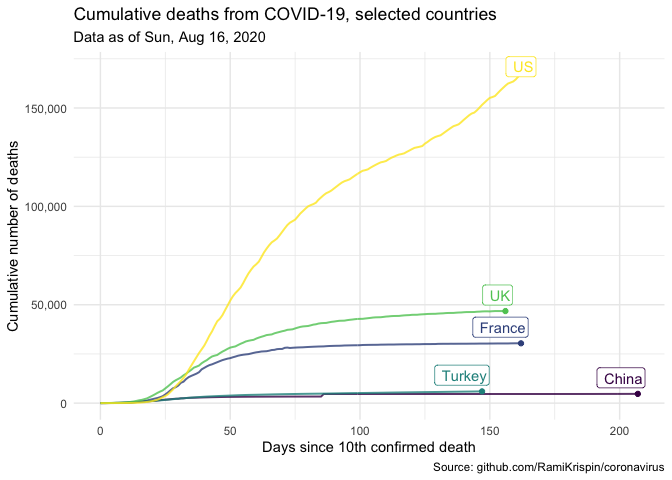
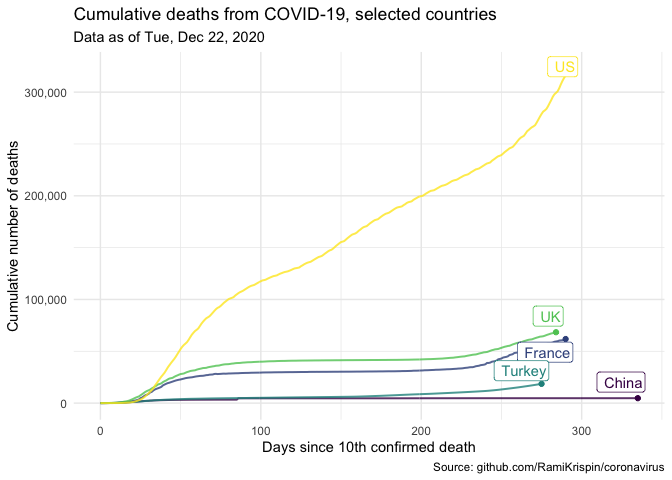
Update with new data

diff --git a/course-materials/application-exercises/ae-01a-un-votes/unvotes.md b/course-materials/application-exercises/ae-01a-un-votes/unvotes.md
@@ -32,7 +32,7 @@ the package) to help you get started with the analysis.
 unvotes <- read_rds("data/unvotes.rds")
 ```
 
-## UN voting patterns {\#voting}
+## UN voting patterns
 
 Let’s create a data visualization that displays how the voting record of
 the UK & NI changed over time on a variety of issues, and compares it to
@@ -66,7 +66,7 @@ unvotes %>%
 
 ![](unvotes_files/figure-gfm/plot-yearly-yes-issue-1.png)<!-- -->
 
-## References {\#references}
+## References
 
 1.  David Robinson (2017).
     [unvotes](https://CRAN.R-project.org/package=unvotes): United
@@ -78,7 +78,7 @@ unvotes %>%
     the [unvotes package
     vignette](https://cran.r-project.org/web/packages/unvotes/vignettes/unvotes.html).
 
-## Appendix {\#appendix}
+## Appendix
 
 Below is a list of countries in the dataset:
 

diff --git a/course-materials/application-exercises/ae-01b-covid/covid.md b/course-materials/application-exercises/ae-01b-covid/covid.md
@@ -113,7 +113,7 @@ as_of_date <- country_data %>%
 as_of_date_formatted <- glue("{wday(as_of_date, label = TRUE)}, {month(as_of_date, label = TRUE)} {day(as_of_date)}, {year(as_of_date)}")
 ```
 
-These data are as of Sun, Aug 16, 2020.
+These data are as of Tue, Dec 22, 2020.
 
 ## Visualisation
 
